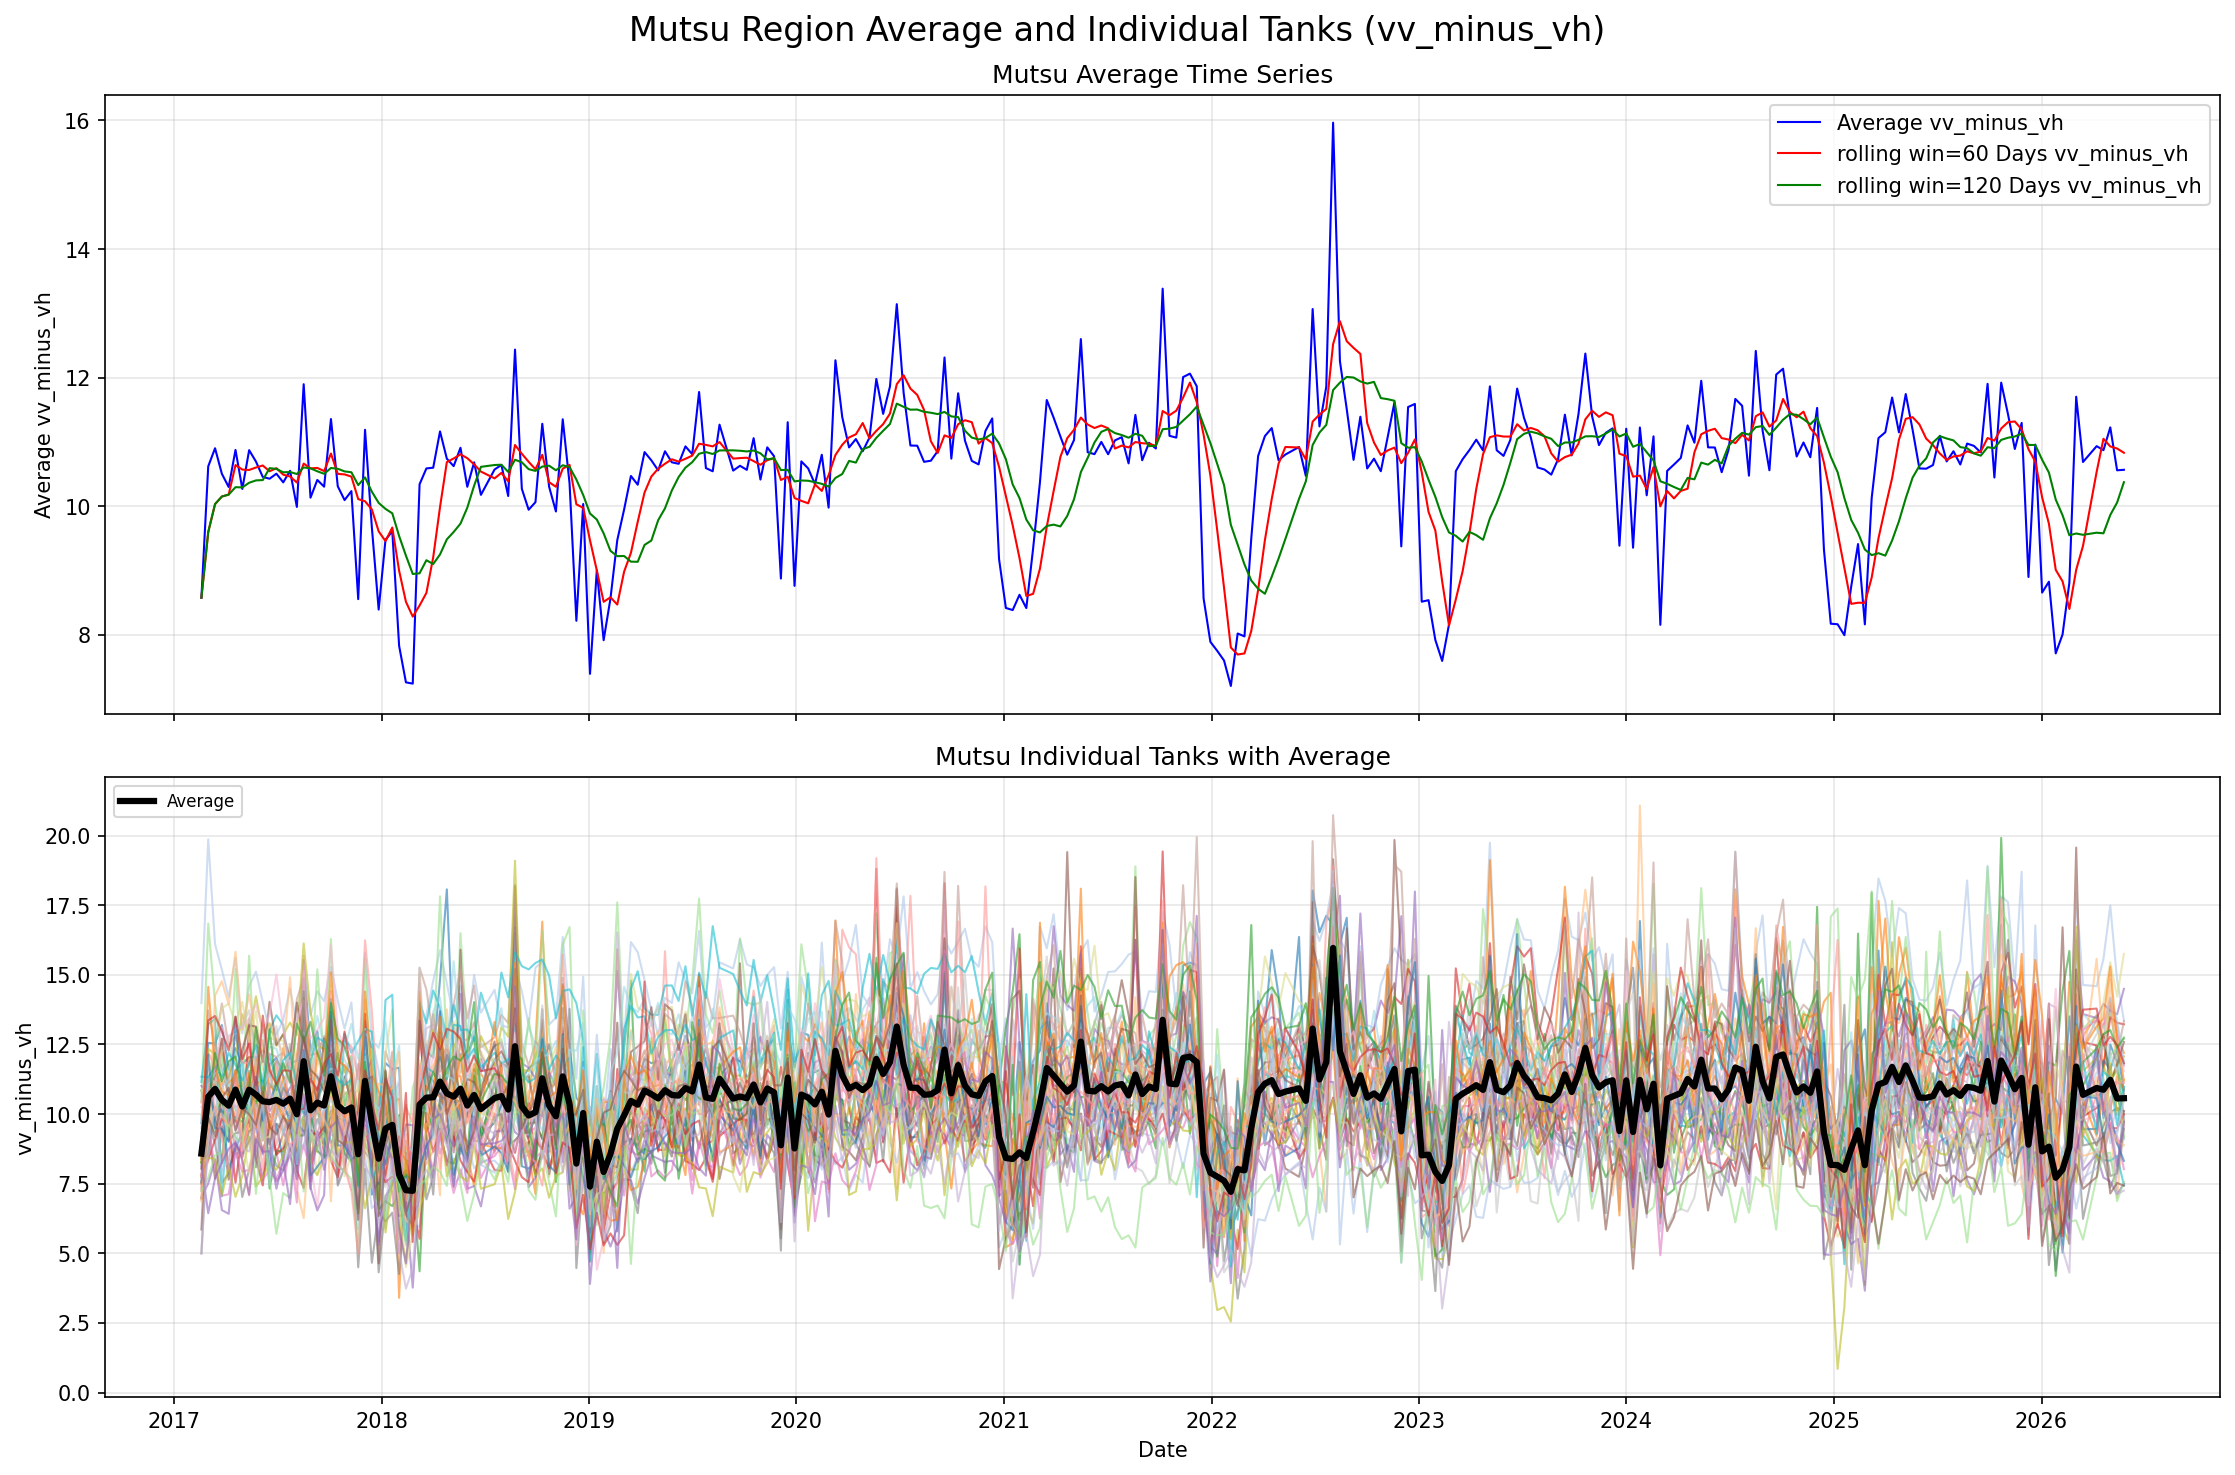
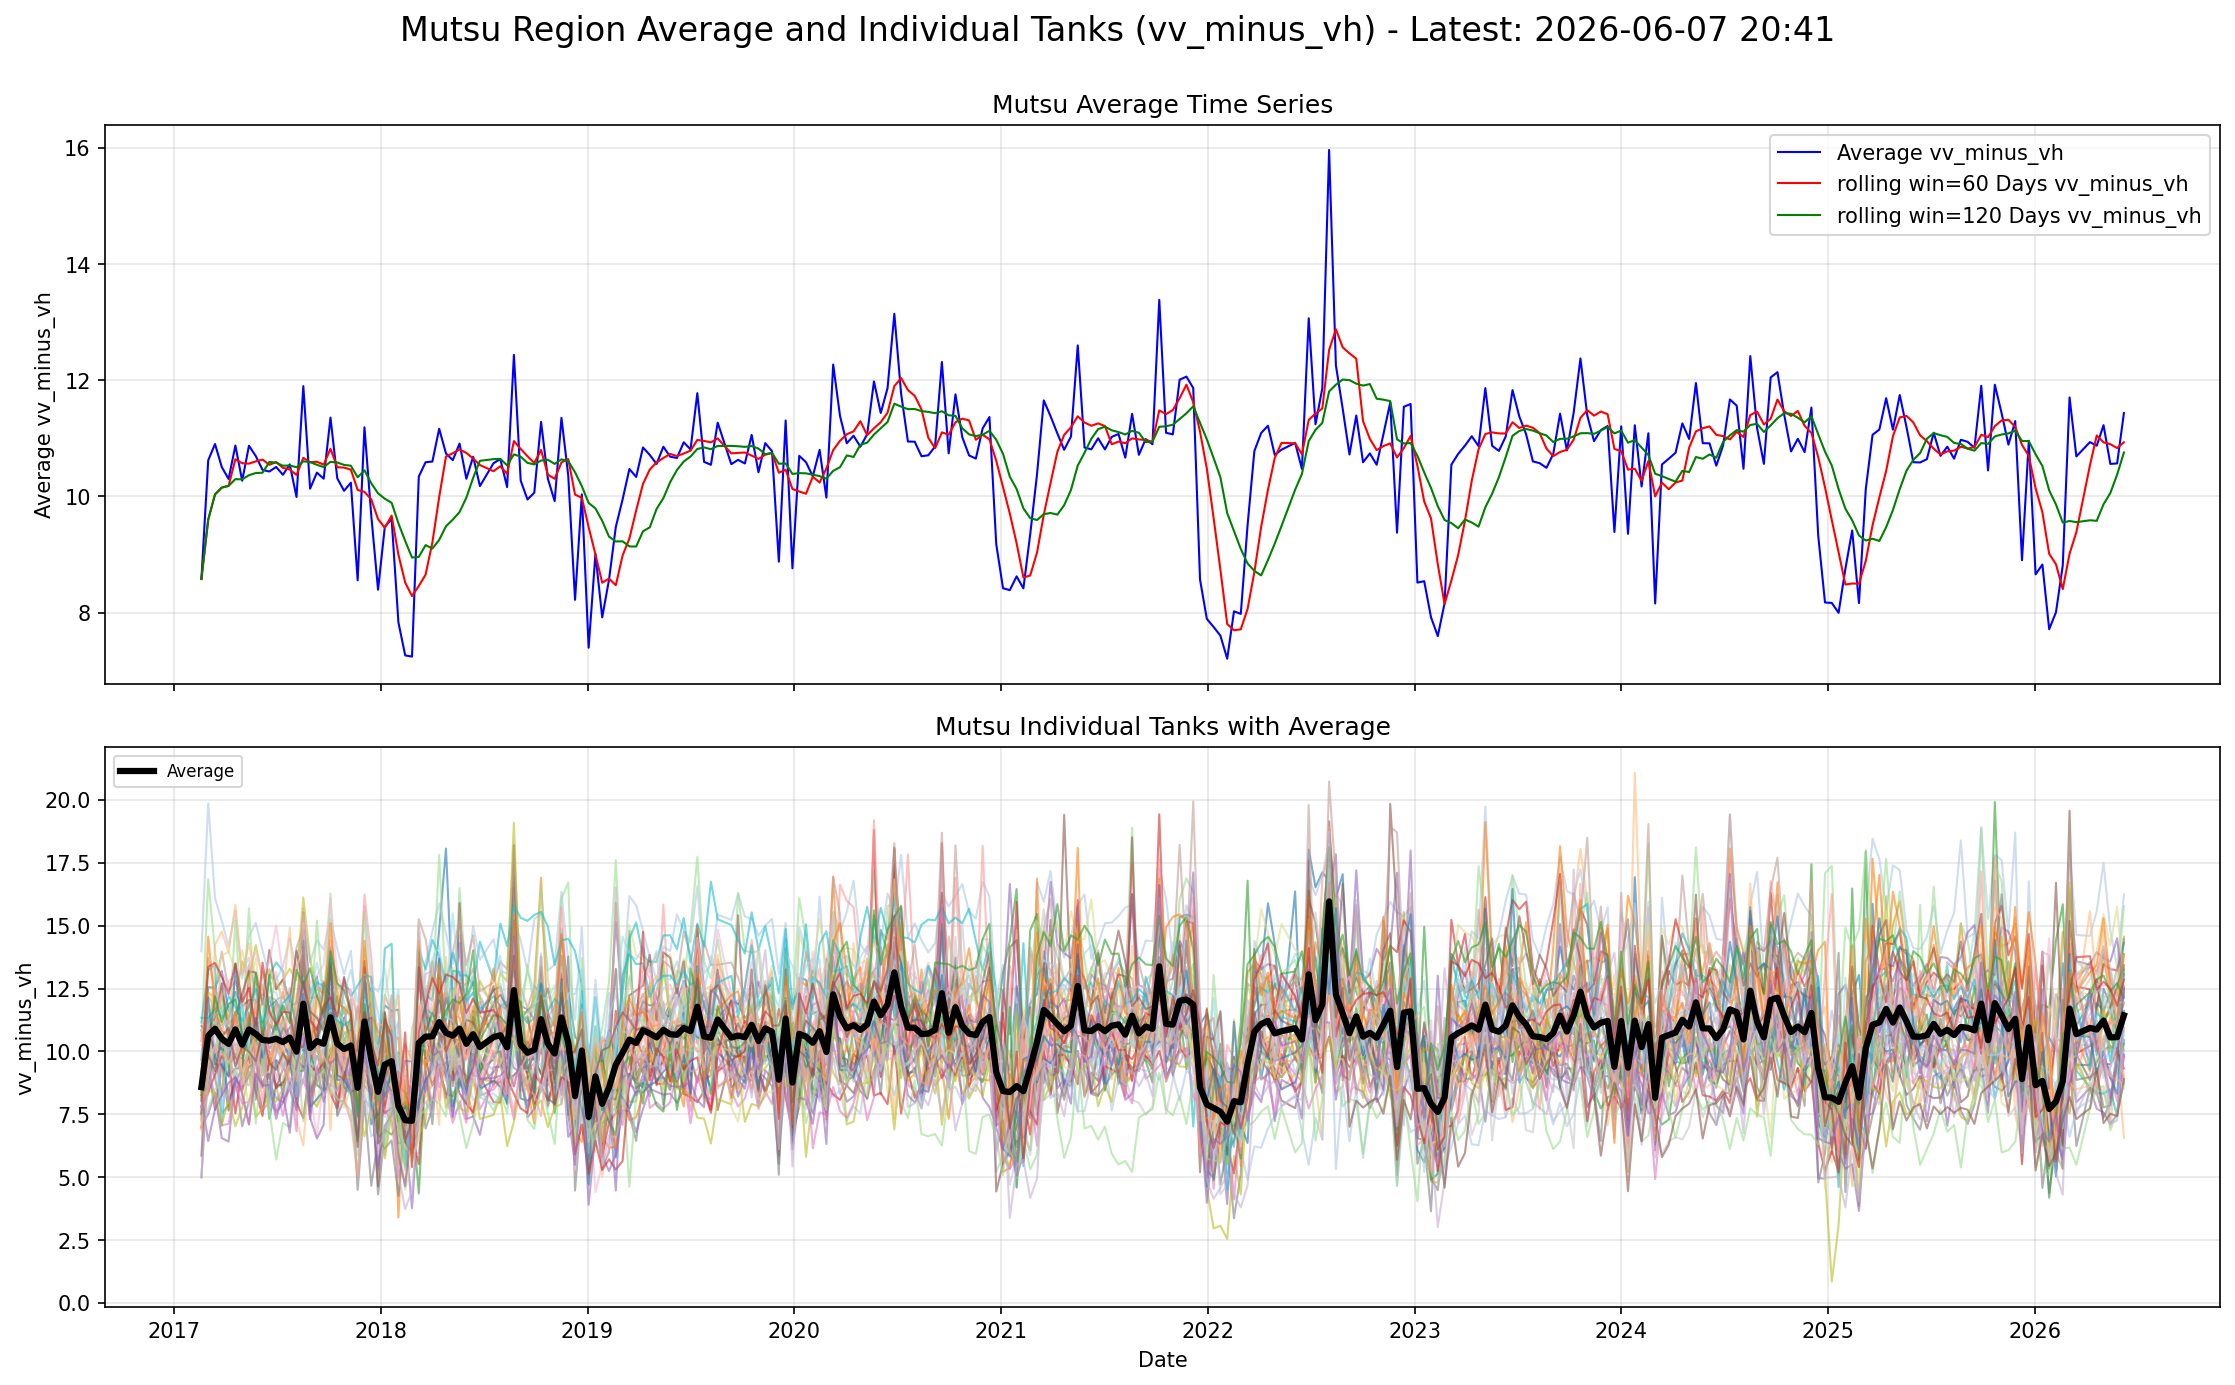
mod: データ収集年月日日時をタイトル埋め込み

diff --git a/src/plot_tanks.py b/src/plot_tanks.py
@@ -16,6 +16,21 @@ def load_tank_data(csv_path):
     if 'angle' in df.columns:
         df = df[df['angle'] < 38]
     df['date'] = pd.to_datetime(df['date'])
+    # 生データに秒までの時刻情報がある場合は `datetime_utc` を優先してフル日時を保持する
+    if 'datetime_utc' in df.columns:
+        # datetime_utc はミリ秒単位の UNIX エポック時刻として扱う
+        col = df['datetime_utc']
+        parsed = pd.to_datetime(col, unit='ms', utc=True, errors='coerce')
+        # もしミリ秒解析が失敗した場合は、文字列形式として最後の手段で解析
+        if parsed.isna().sum() > 0:
+            parsed_generic = pd.to_datetime(col, utc=True, errors='coerce')
+            if parsed_generic.notna().sum() > parsed.notna().sum():
+                parsed = parsed_generic
+        df['datetime'] = parsed
+        # 欠損があれば日付のみの列で埋める
+        df['datetime'] = df['datetime'].fillna(df['date'])
+    else:
+        df['datetime'] = df['date']
     df['tank_id'] = df['tank_id'].astype(str)
 
     # RAWデータのみなので、is_change_pointはFalse
@@ -128,7 +143,17 @@ def plot_all_tanks(df, indicator, title, output_path=None, remove_outliers=False
     elif cols == 1:
         axes = axes.reshape(-1, 1)
 
-    fig.suptitle(title, fontsize=16, y=0.98)
+    # 全体の最新データ時刻を取得してスーパータイトルに付与
+    if not df.empty:
+        latest_col = 'datetime' if 'datetime' in df.columns else 'date'
+        overall_latest = df[latest_col].max()
+        try:
+            overall_latest_str = overall_latest.strftime('%Y-%m-%d %H:%M')
+        except Exception:
+            overall_latest_str = str(overall_latest)
+        fig.suptitle(f"{title} (Latest: {overall_latest_str})", fontsize=16, y=0.92)
+    else:
+        fig.suptitle(title, fontsize=16, y=0.92)
 
     for i, tank_id in enumerate(tank_ids):
         row = i // cols
@@ -146,7 +171,17 @@ def plot_all_tanks(df, indicator, title, output_path=None, remove_outliers=False
         if not change_points.empty:
             ax.scatter(change_points['date'], change_points[indicator], color='red', s=20, zorder=5)
 
-        ax.set_title(tank_id, fontsize=8)
+        # 各タンクごとの最新データ時刻をサブプロットタイトルに含める
+        if not tank_data.empty:
+            latest_col = 'datetime' if 'datetime' in tank_data.columns else 'date'
+            tank_latest = tank_data[latest_col].max()
+            try:
+                tank_latest_str = tank_latest.strftime('%Y-%m-%d %H:%M')
+            except Exception:
+                tank_latest_str = str(tank_latest)
+            ax.set_title(f"{tank_id}\n{tank_latest_str}", fontsize=8)
+        else:
+            ax.set_title(tank_id, fontsize=8)
         ax.grid(True, alpha=0.3)
         ax.tick_params(axis='both', which='major', labelsize=6)
 
@@ -160,7 +195,7 @@ def plot_all_tanks(df, indicator, title, output_path=None, remove_outliers=False
         col = i % cols
         axes[row, col].set_visible(False)
 
-    plt.tight_layout()
+    fig.tight_layout(rect=[0, 0, 1, 0.92])
     if output_path:
         plt.savefig(output_path, dpi=150, bbox_inches='tight')
         plt.close(fig)
@@ -176,7 +211,17 @@ def plot_region_average(df, region, indicator, output_path=None, remove_outliers
         return
 
     fig, (ax1, ax2) = plt.subplots(2, 1, figsize=(15, 10), sharex=True)
-    fig.suptitle(f'{region.capitalize()} Region Average and Individual Tanks ({indicator})', fontsize=16, y=0.98)
+    # 地域データの最新時刻を取得してスーパータイトルに含める
+    if not df.empty:
+        latest_col = 'datetime' if 'datetime' in df.columns else 'date'
+        region_latest = df[latest_col].max()
+        try:
+            region_latest_str = region_latest.strftime('%Y-%m-%d %H:%M')
+        except Exception:
+            region_latest_str = str(region_latest)
+        fig.suptitle(f"{region.capitalize()} Region Average and Individual Tanks ({indicator}) - Latest: {region_latest_str}", fontsize=16, y=0.92)
+    else:
+        fig.suptitle(f'{region.capitalize()} Region Average and Individual Tanks ({indicator})', fontsize=16, y=0.92)
 
     if remove_outliers and len(daily_avg) > 4:
         daily_avg = remove_outliers_iqr(daily_avg, indicator)
@@ -217,7 +262,7 @@ def plot_region_average(df, region, indicator, output_path=None, remove_outliers
     ax2.grid(True, alpha=0.3)
     ax2.legend(loc='upper left', fontsize=8)
 
-    plt.tight_layout()
+    fig.tight_layout(rect=[0, 0, 1, 0.92])
     if output_path:
         plt.savefig(output_path, dpi=150, bbox_inches='tight')
         plt.close(fig)
@@ -239,7 +284,15 @@ def plot_region_averages_comparison(region_dfs, indicator, output_path=None, rem
             continue
         if remove_outliers and len(daily_avg) > 4:
             daily_avg = remove_outliers_iqr(daily_avg, indicator)
-        ax.plot(daily_avg['date'], daily_avg[indicator], label=region, color=colors[i % len(colors)], linewidth=2)
+        # 各地域の最新データ時刻を凡例に含める
+        try:
+            latest_col = 'datetime' if 'datetime' in df.columns else 'date'
+            region_latest = df[latest_col].max()
+            region_latest_str = region_latest.strftime('%Y-%m-%d %H:%M')
+            label = f"{region} ({region_latest_str})"
+        except Exception:
+            label = region
+        ax.plot(daily_avg['date'], daily_avg[indicator], label=label, color=colors[i % len(colors)], linewidth=2)
 
     ax.set_title(f'Region Average Comparison ({indicator}) - All Regions')
     ax.set_xlabel('Date')
@@ -268,7 +321,17 @@ def plot_combined_average(df, indicator, title, output_path=None, remove_outlier
         return
 
     fig, (ax1, ax2) = plt.subplots(2, 1, figsize=(16, 12), sharex=True)
-    fig.suptitle(title, fontsize=16, y=0.98)
+    # 結合データの最新時刻を局所的に取得してスーパータイトルへ
+    if not df.empty:
+        latest_col = 'datetime' if 'datetime' in df.columns else 'date'
+        combined_latest = df[latest_col].max()
+        try:
+            combined_latest_str = combined_latest.strftime('%Y-%m-%d %H:%M')
+        except Exception:
+            combined_latest_str = str(combined_latest)
+        fig.suptitle(f"{title} - Latest: {combined_latest_str}", fontsize=16, y=0.92)
+    else:
+        fig.suptitle(title, fontsize=16, y=0.92)
 
     if remove_outliers and len(daily_avg) > 4:
         daily_avg = remove_outliers_iqr(daily_avg, indicator)
@@ -308,7 +371,7 @@ def plot_combined_average(df, indicator, title, output_path=None, remove_outlier
     ax2.grid(True, alpha=0.3)
     ax2.legend(loc='upper left', fontsize=8)
 
-    plt.tight_layout()
+    fig.tight_layout(rect=[0, 0, 1, 0.92])
     if output_path:
         plt.savefig(output_path, dpi=150, bbox_inches='tight')
         plt.close(fig)
@@ -320,6 +383,16 @@ def plot_combined_average(df, indicator, title, output_path=None, remove_outlier
 def plot_multi_indicators(df, indicators, title, output_path=None, remove_outliers=False):
     """複数の指標をプロット。2つなら左右Y軸、3つ以上なら複数行サブプロット"""
     df = df.sort_values('date')
+
+    # 全データの最新時刻を取得してタイトルに含める
+    if not df.empty:
+        try:
+            latest_col = 'datetime' if 'datetime' in df.columns else 'date'
+            multi_latest = df[latest_col].max()
+            multi_latest_str = multi_latest.strftime('%Y-%m-%d %H:%M')
+        except Exception:
+            multi_latest_str = str(df[latest_col].max())
+        title = f"{title} - Latest: {multi_latest_str}"
 
     if len(indicators) == 2:
         fig, ax1 = plt.subplots(figsize=(15, 8))
